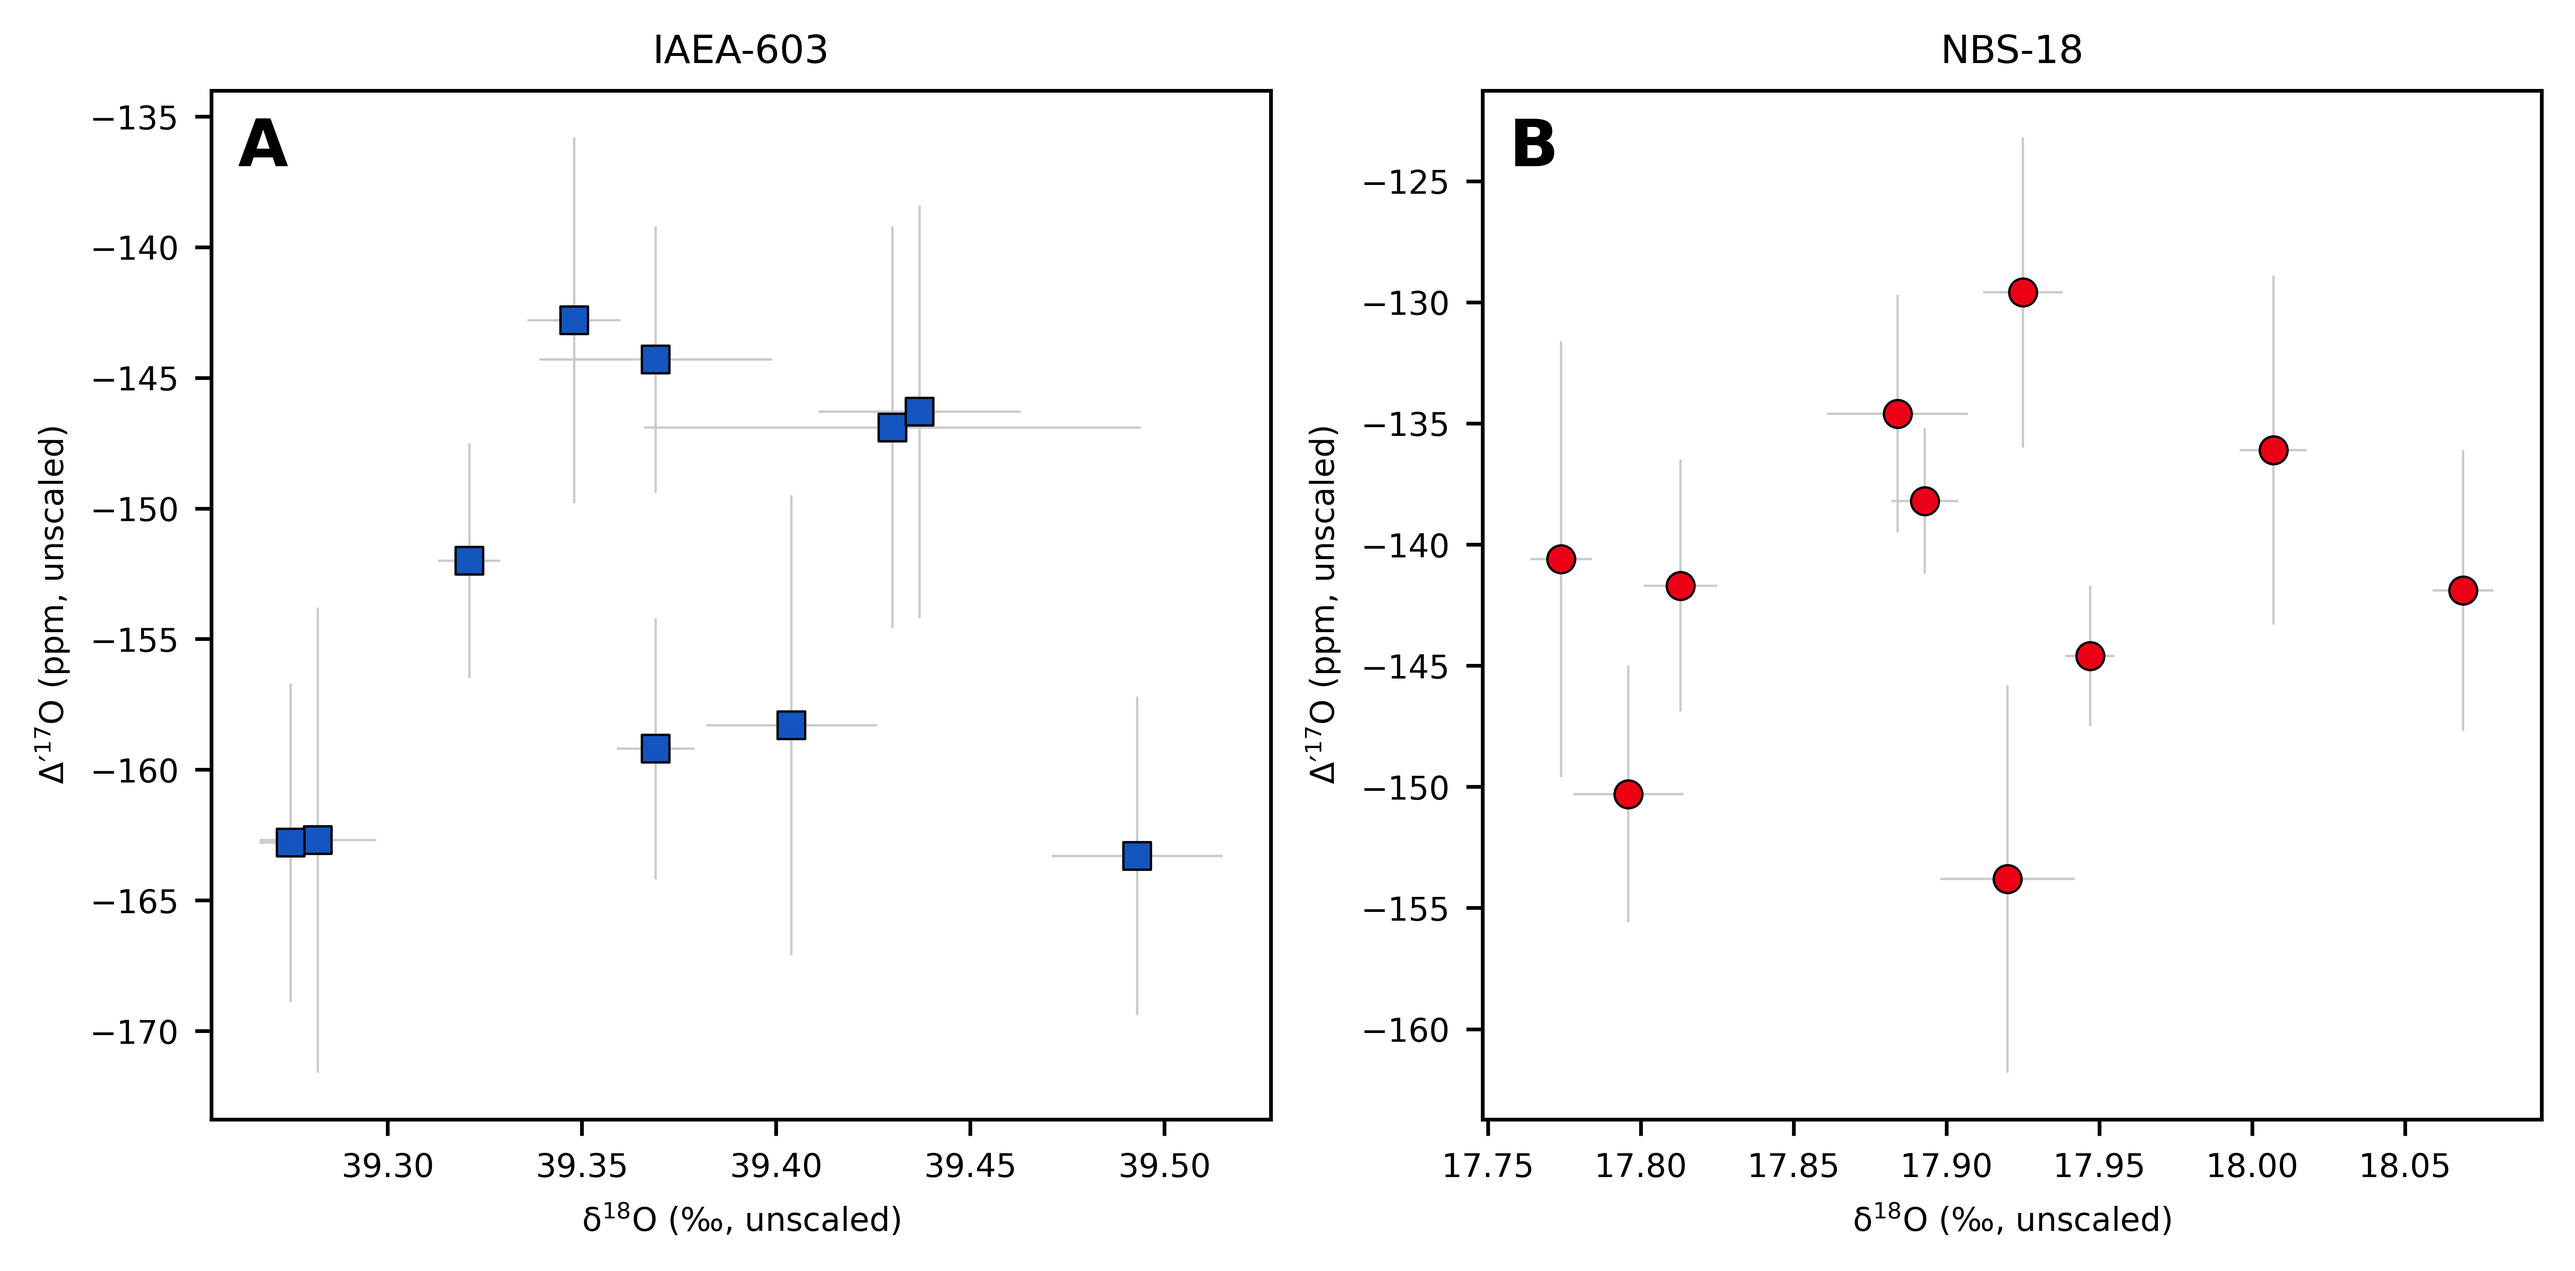
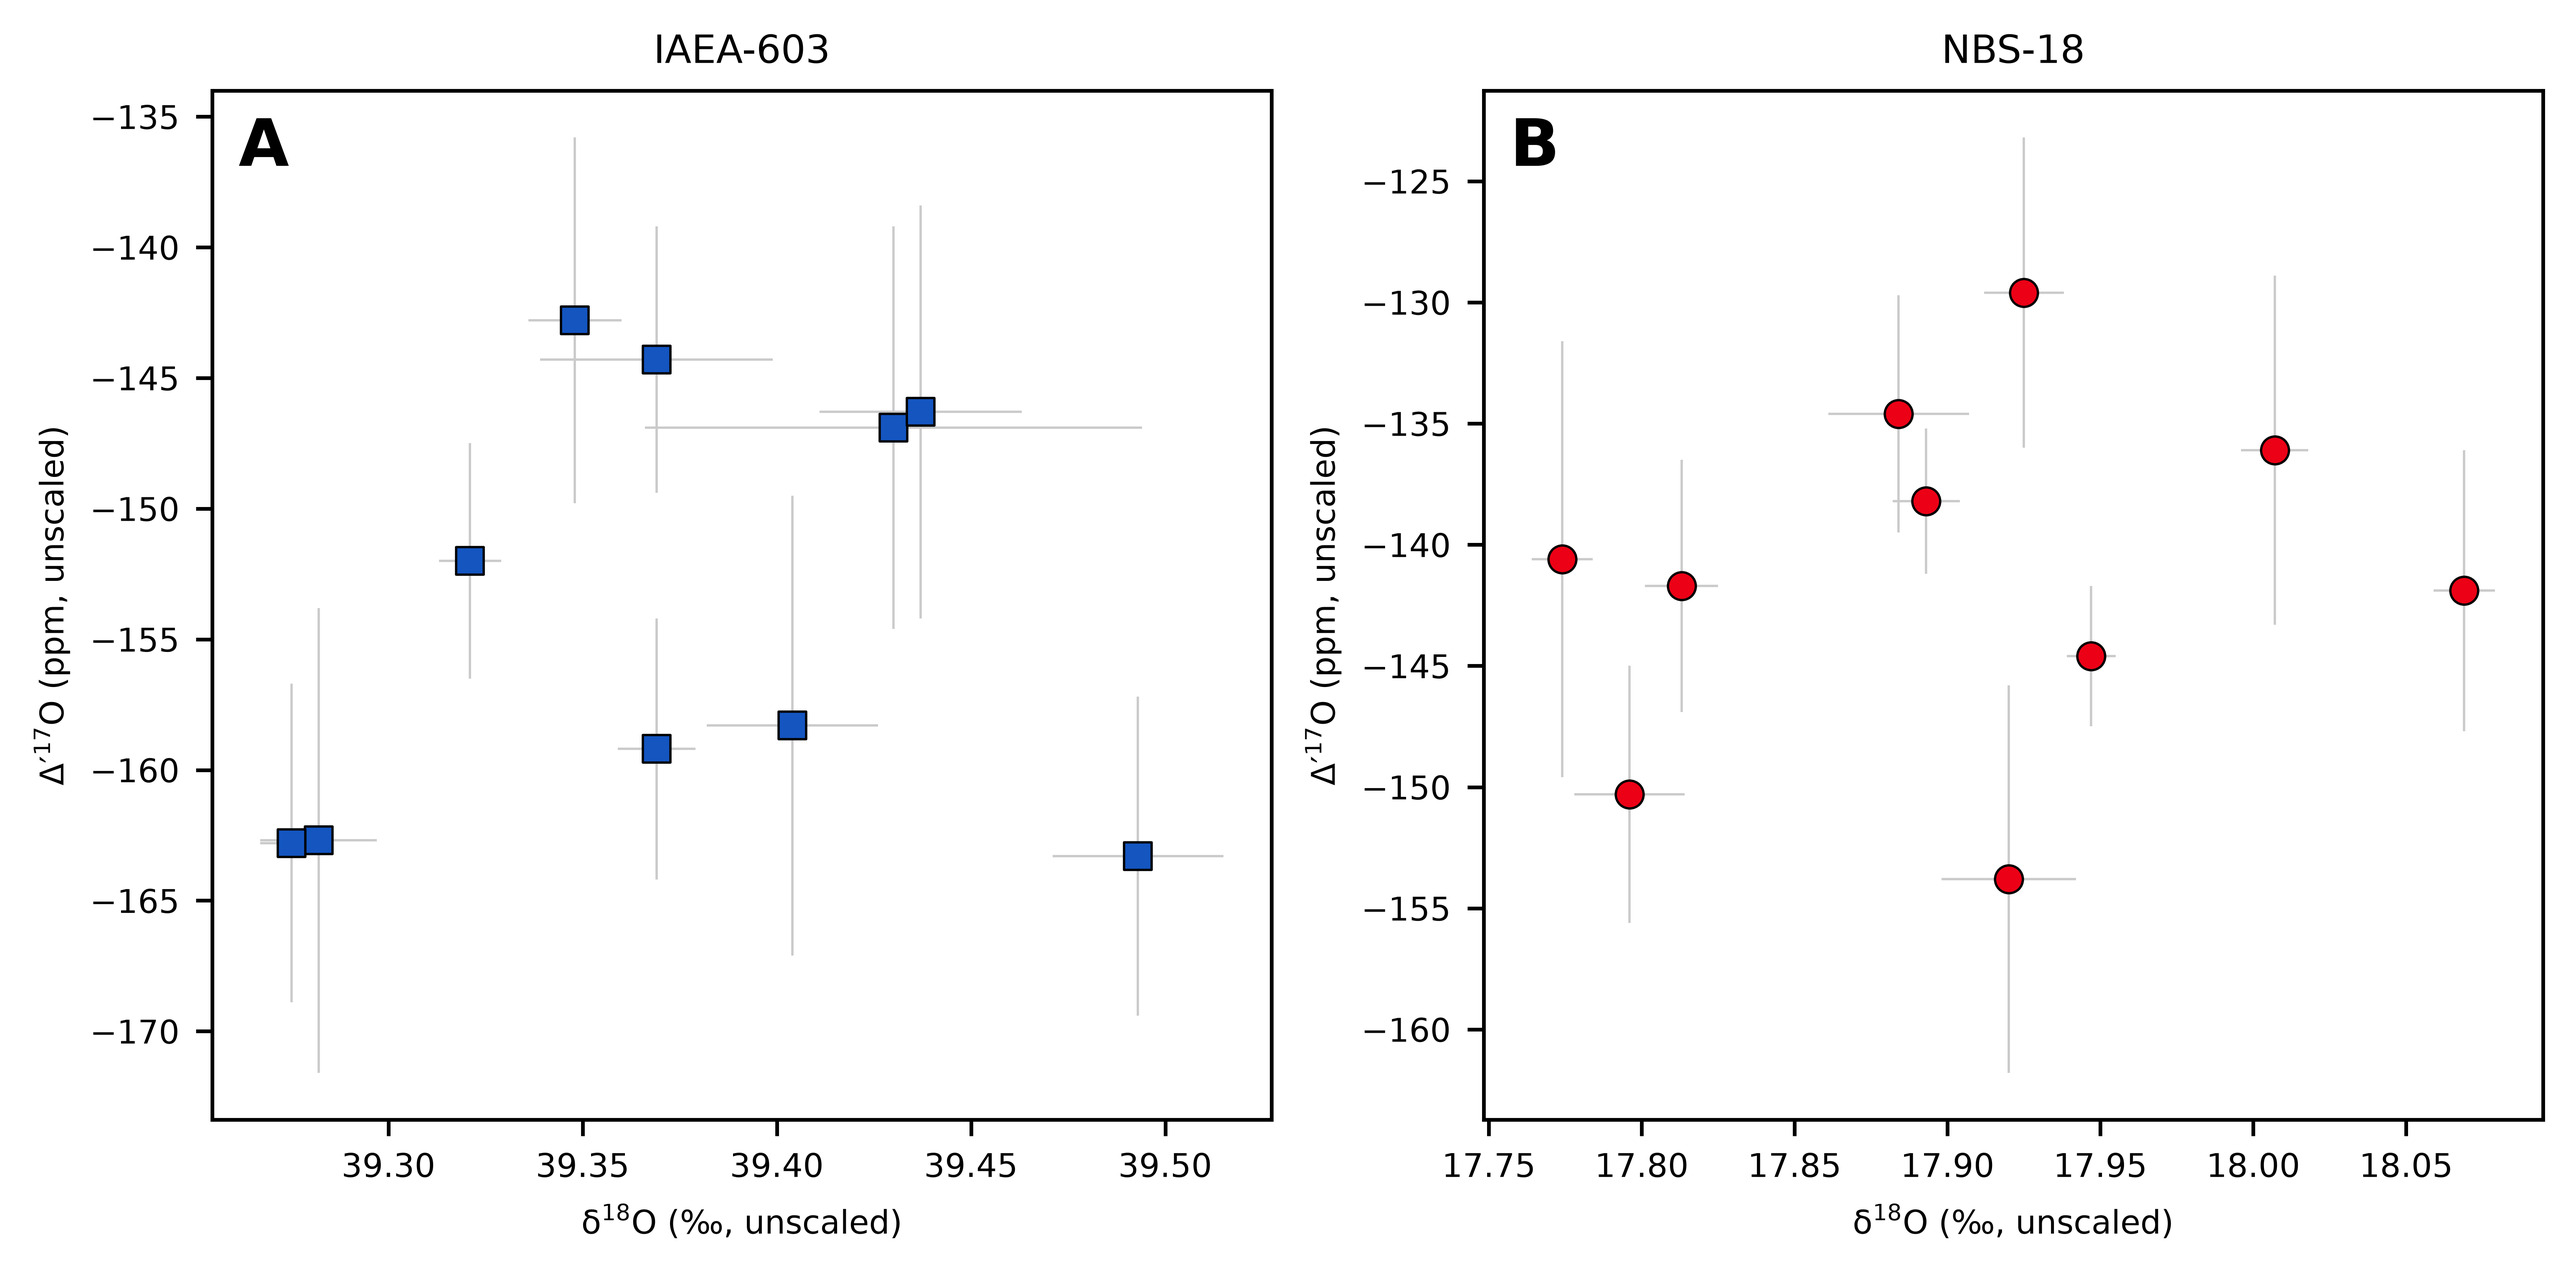
on the train

diff --git a/codes/OH2 1 scale reference.py b/codes/OH2 1 scale reference.py
@@ -69,16 +69,16 @@ NBS18_d17O_measured = df[df["SampleName"].str.contains("NBS18")]["d17O"].mean()
 print(f"NBS-18: d18O = {NBS18_d18O_measured:.3f}‰, d17O = {NBS18_d17O_measured:.3f}‰")
 
 # Accepted CO2 values
-IAEA603_d18O_accepted = (to_VSMOW(-2.37) + 1000) * 1.01025 - 1000
-IAEA603_Dp17O_accepted = -147 # from Wostbrock et al. (2020)
-# IAEA603_Dp17O_accepted = -127.3 # from Chaillot et al. (2022) - considering no AFF correction
+IAEA603_d18O_accepted = (to_VSMOW(-2.37) + 1000) * 1.01025 - 1000 # 25 °C acid digestion
+# IAEA603_Dp17O_accepted = -147 # from Wostbrock et al. (2020)
+IAEA603_Dp17O_accepted = -127.3-4.1 # from Chaillot et al. (2022) # from 90 °C acid digestion, corrected for a 25 °C reaction
 IAEA603_d17O_accepted = unprime(IAEA603_Dp17O_accepted/1000 + 0.528 * prime(IAEA603_d18O_accepted))
 print("\nAccepted values:")
 print(f"IAEA-603: d18O = {IAEA603_d18O_accepted:.3f}‰, ∆'17O = {IAEA603_Dp17O_accepted:.0f} ppm")
 
-NBS18_d18O_accepted = (to_VSMOW(-23.2) + 1000) * 1.01025 - 1000
-NBS18_Dp17O_accepted = -100 # from Wostbrock et al. (2020)
-# NBS18_Dp17O_accepted = -101.3 # from Chaillot et al. (2022) - considering no AFF correction
+NBS18_d18O_accepted = (to_VSMOW(-23.01) + 1000) * 1.01025 - 1000 # 25 °C acid digestion
+# NBS18_Dp17O_accepted = -100 # from Wostbrock et al. (2020)
+NBS18_Dp17O_accepted = -101.3-4.1 # from Chaillot et al. (2022) # from 90 °C acid digestion, corrected for a 25 °C reaction
 NBS18_d17O_accepted = unprime(NBS18_Dp17O_accepted/1000 + 0.528 * prime(NBS18_d18O_accepted))
 print(f"NBS-18: d18O = {NBS18_d18O_accepted:.3f}‰, ∆'17O = {NBS18_Dp17O_accepted:.0f} ppm")
 
